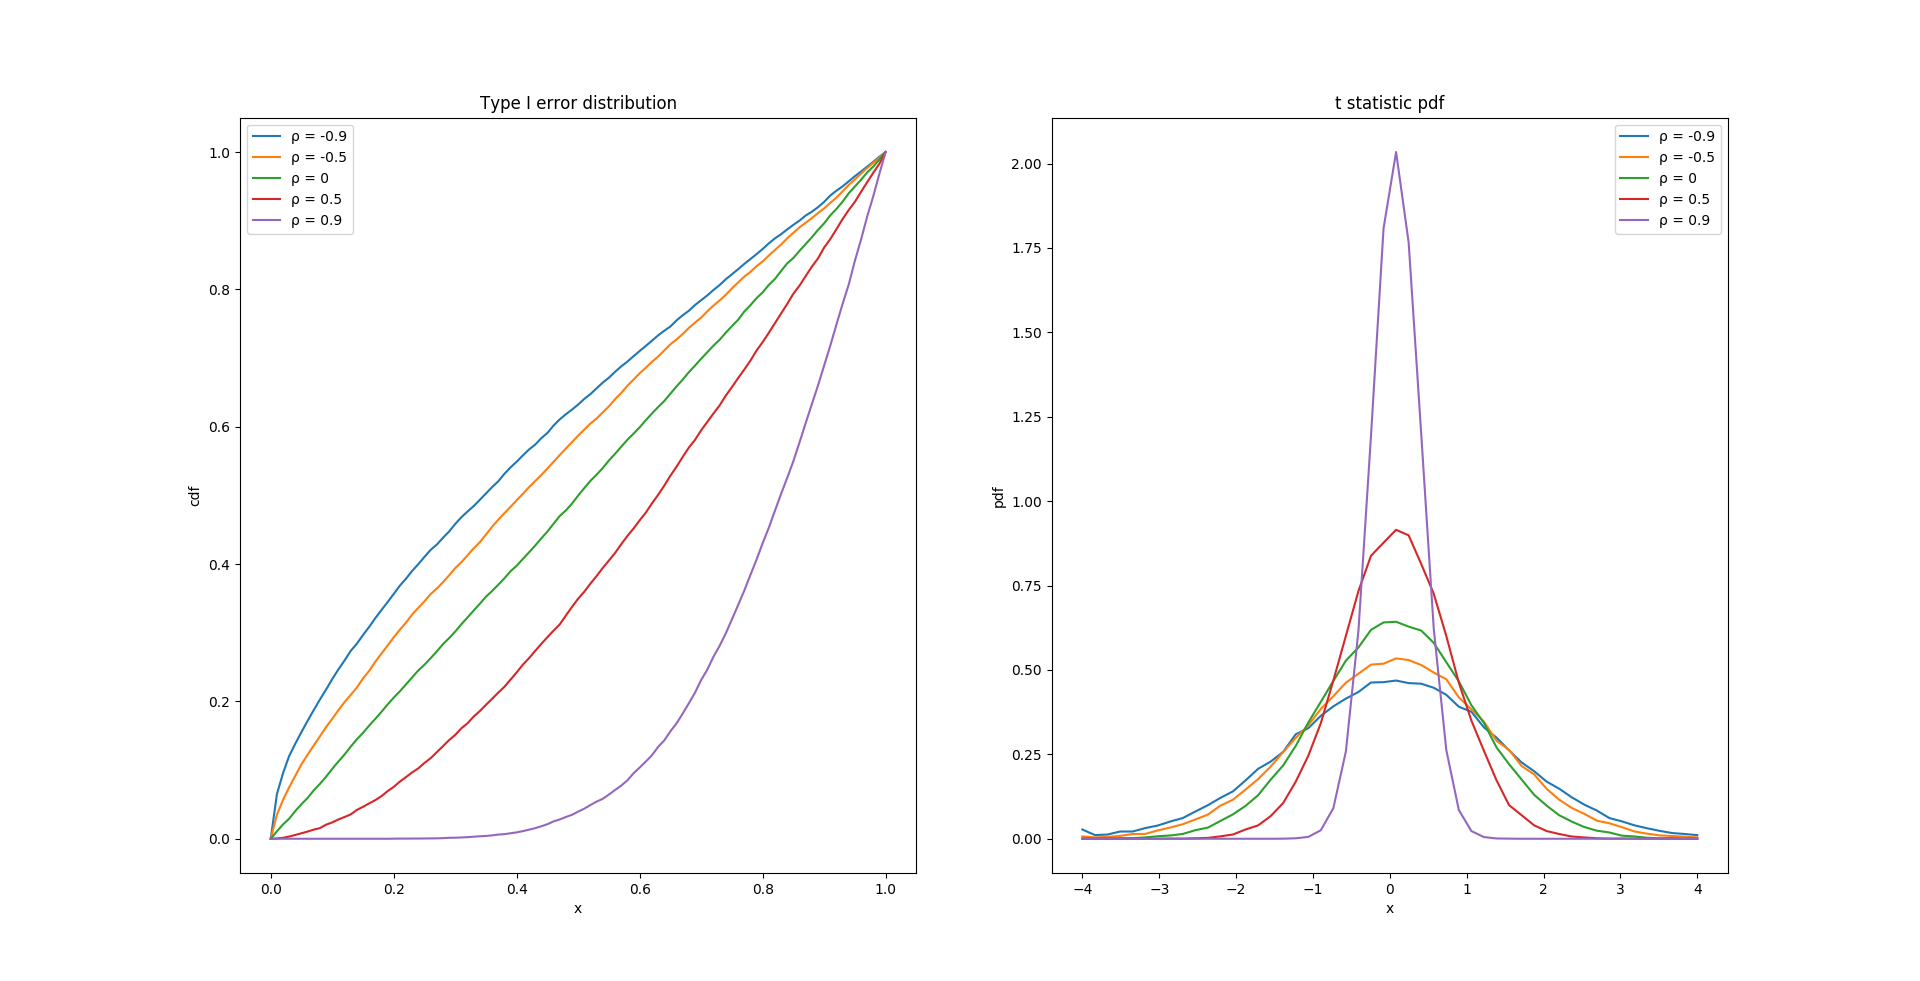
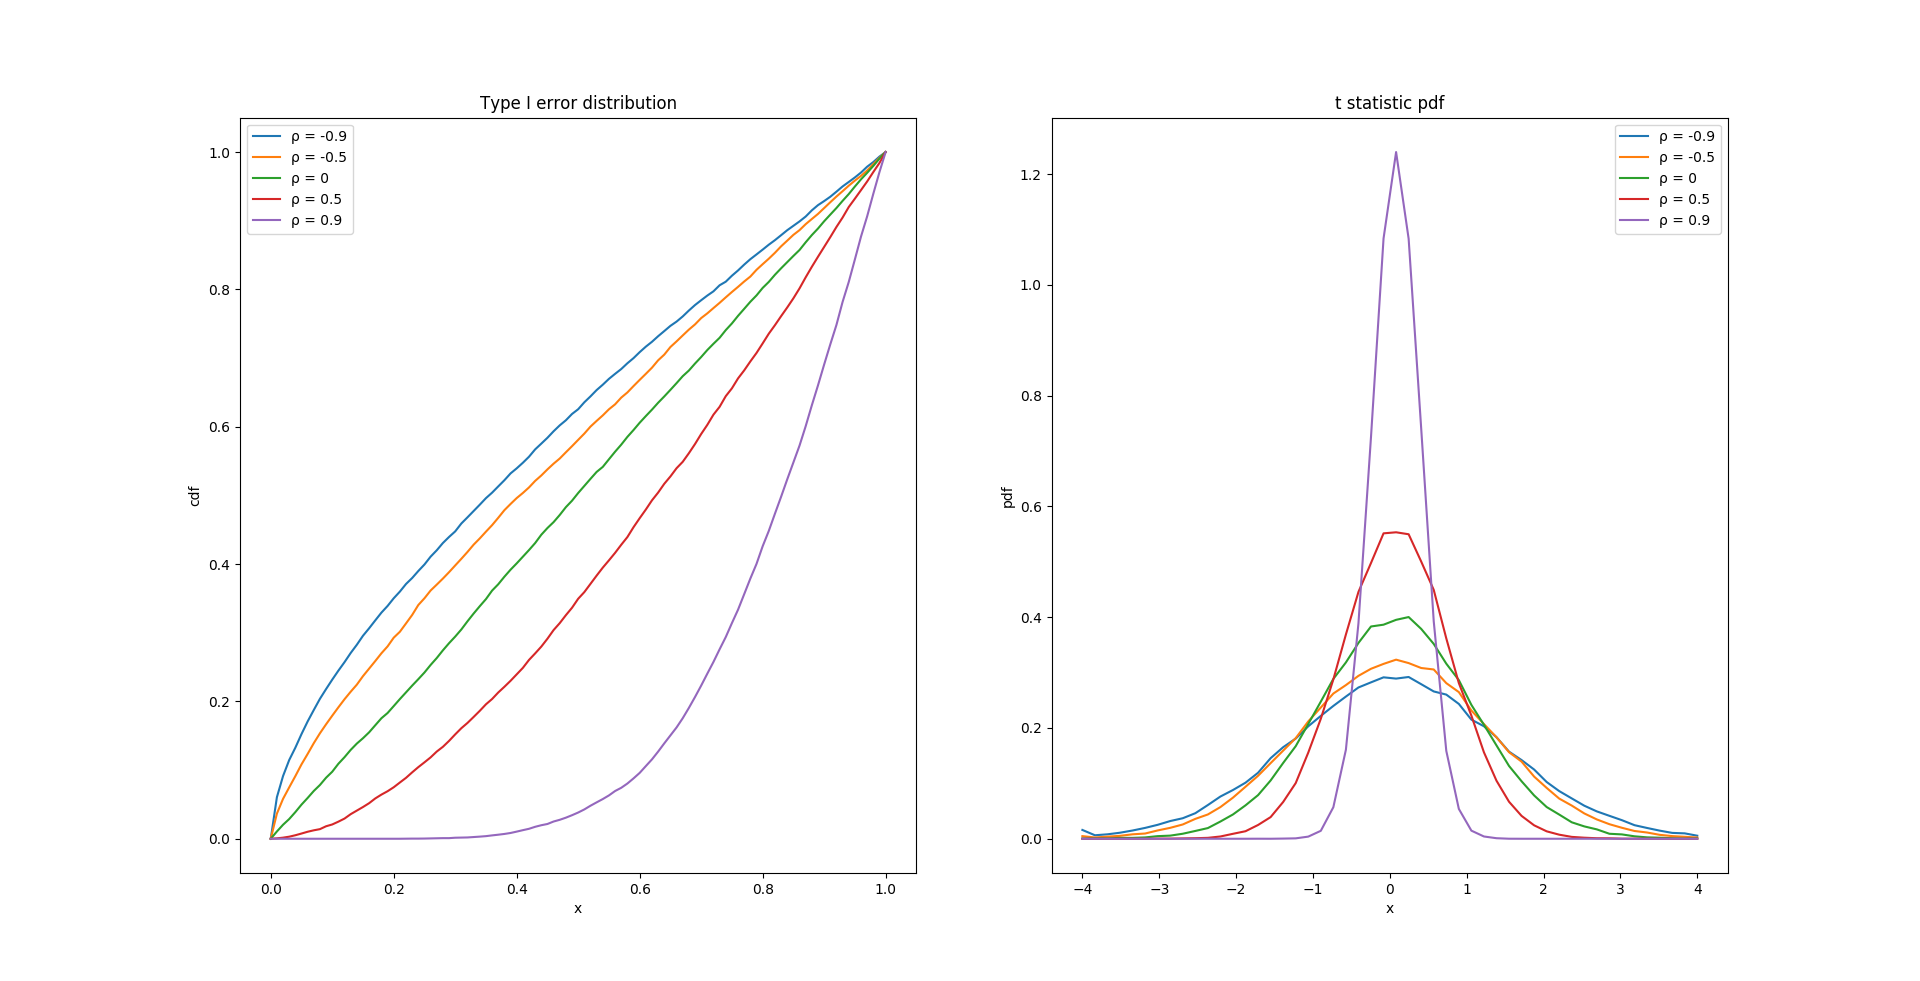
fixed hw 7

diff --git a/7.py b/7.py
@@ -34,6 +34,7 @@ if __name__ == '__main__':
     # t statistic pdf 
     for rho in [-0.9, -0.5, 0, 0.5, 0.9]:
         xs = np.linspace(-4, 4, 50)
+        delta = xs[1] - xs[0]
         t_stat_freq = np.zeros(xs.shape)
         for _ in range(N * 10):
             sample1 = np.random.normal(size=SAMPLE_SIZE)
@@ -44,7 +45,7 @@ if __name__ == '__main__':
                 if ttest.statistic <= x:
                     t_stat_freq[i] += 1
                     break
-        t_stat_freq /= N
+        t_stat_freq /= N * 10 * delta
         plt.plot(xs, t_stat_freq, label='ρ = {}'.format(rho))
     plt.legend()
     plt.xlabel('x')
